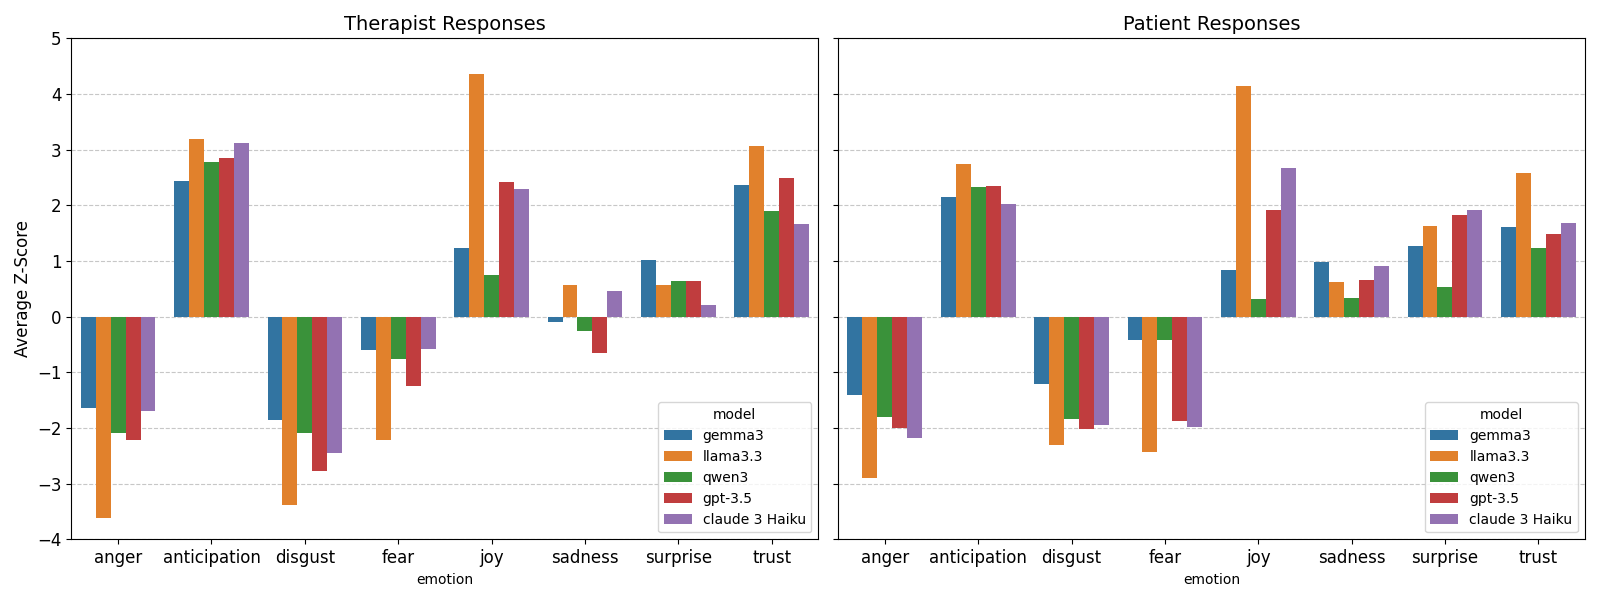
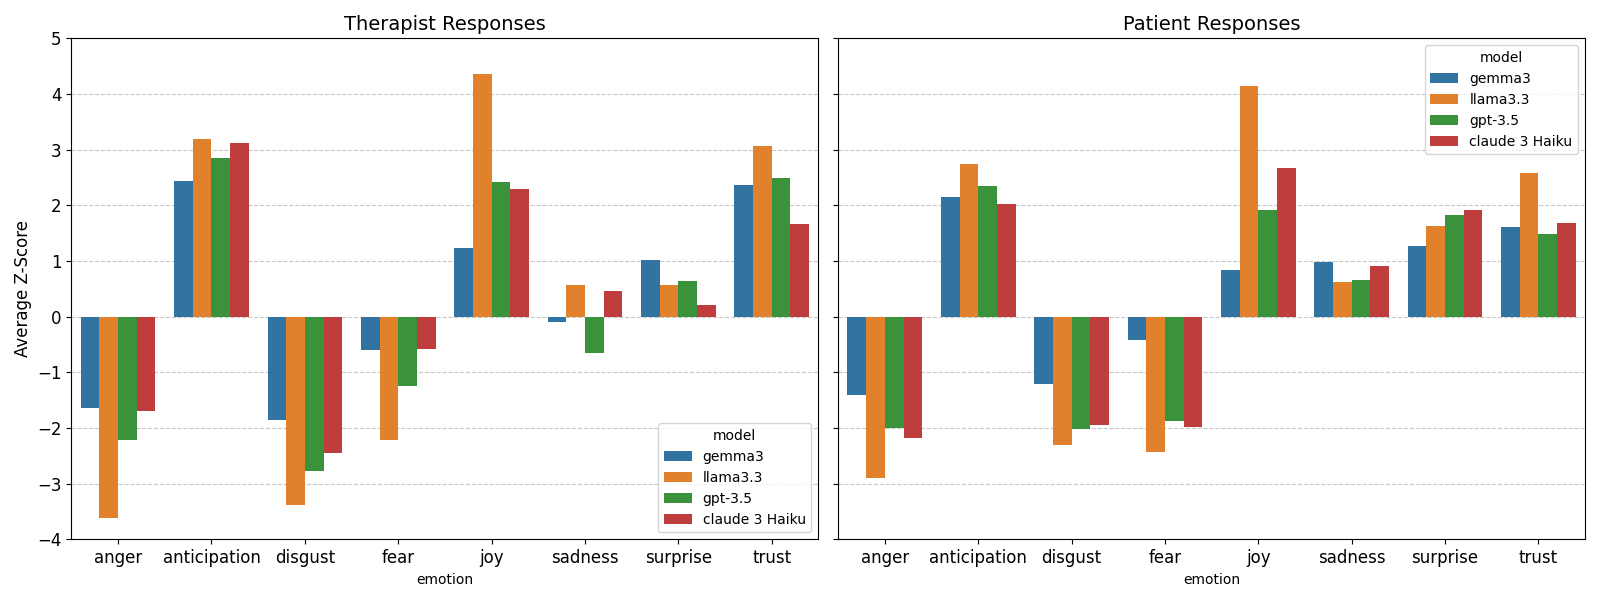
updating plot without qwen3

diff --git a/plot_z-scores.py b/plot_z-scores.py
@@ -5,11 +5,10 @@ import seaborn as sns
 
 # Define file paths
 file_paths = {
-    "gemma3": "plots/average_zscores_gemma3.csv",
-    "llama3.3": "plots/average_zscores_llama3.3.csv",
-    "qwen3": "plots/average_zscores_qwen3.csv",
-    "gpt-3.5": "plots/average_zscores_GPT.csv",
-    "claude 3 Haiku": "plots/average_zscores_Haiku.csv"
+    "gemma3": "calculated_data/average_zscores_gemma3.csv",
+    "llama3.3": "calculated_data/average_zscores_llama3.3.csv",
+    "gpt-3.5": "calculated_data/average_zscores_GPT.csv",
+    "claude 3 Haiku": "calculated_data/average_zscores_Haiku.csv"
 }
 
 # Load and label each dataset
